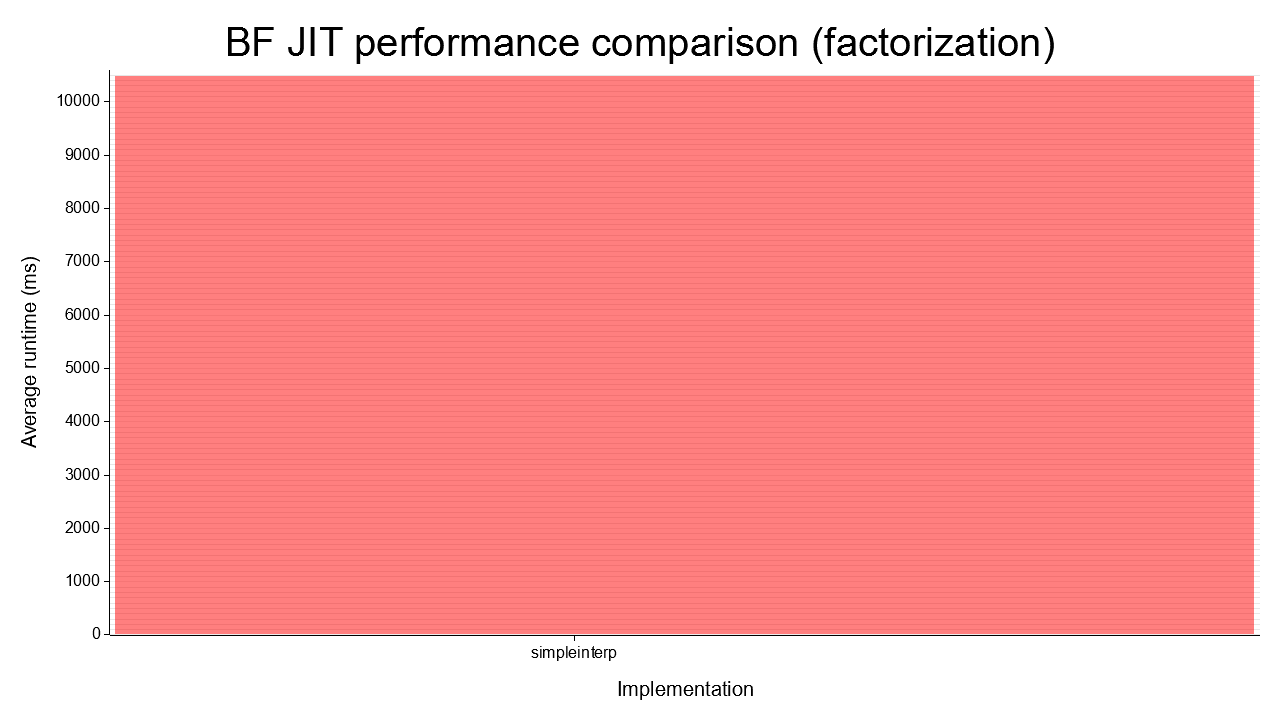
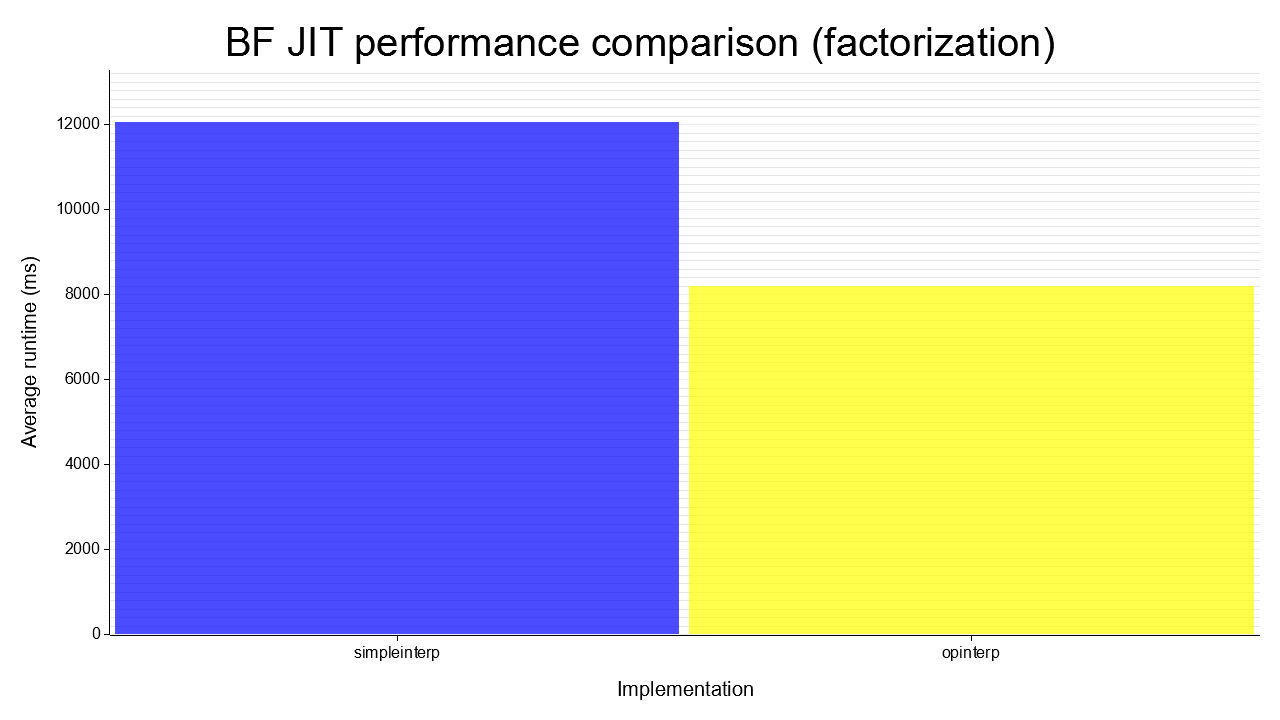
Measure perf of opinterp

diff --git a/bench/src/lib.rs b/bench/src/lib.rs
@@ -5,7 +5,7 @@ use {
         coord::ranged1d::{IntoSegmentedCoord, SegmentValue},
         drawing::IntoDrawingArea,
         series::Histogram,
-        style::{Color, RED, WHITE},
+        style::{Color, BLUE, WHITE, YELLOW},
     },
     std::{fs, time::Instant},
     util::{BfError, RunFunction},
@@ -52,12 +52,10 @@ fn graph_results_for_file(
     input: &str,
     source_code: &str,
 ) -> Result<(), BfError> {
-    let perf_millis = [ImplInfo::new(
-        "simpleinterp",
-        &simpleinterp::run,
-        source_code,
-        input,
-    )?];
+    let perf_millis = [
+        ImplInfo::new("simpleinterp", &simpleinterp::run, source_code, input)?,
+        ImplInfo::new("opinterp", &opinterp::run, source_code, input)?,
+    ];
 
     create_graph(title, short_title, perf_millis)?;
 
@@ -106,7 +104,7 @@ fn create_graph<const N: usize>(
 
     let names = perf_millis.iter().map(|x| x.name).collect::<Vec<_>>();
     let max_value = perf_millis.iter().map(|x| x.millis).max().unwrap();
-    println!("{max_value}");
+    let max_value_more_10_percent = ((max_value as f64) * 1.1) as u128;
 
     let mut chart = ChartBuilder::on(&root)
         .x_label_area_size(65)
@@ -116,7 +114,7 @@ fn create_graph<const N: usize>(
             format!("BF JIT performance comparison ({title})"),
             ("sans-serif", 50.0),
         )
-        .build_cartesian_2d(names.into_segmented(), 0u128..(max_value + 100))?;
+        .build_cartesian_2d(names.into_segmented(), 0u128..(max_value_more_10_percent))?;
     chart
         .configure_mesh()
         .disable_x_mesh()
@@ -130,7 +128,11 @@ fn create_graph<const N: usize>(
 
     chart.draw_series(
         Histogram::vertical(&chart)
-            .style(RED.mix(0.5).filled())
+            .style_func(|value, _millis| match **segmented_value_to_inner(value) {
+                "simpleinterp" => BLUE.mix(0.7).filled(),
+                "opinterp" => YELLOW.mix(0.7).filled(),
+                _ => unreachable!(),
+            })
             .data(perf_millis.iter().map(|x| (&x.name, x.millis))),
     )?;
 
